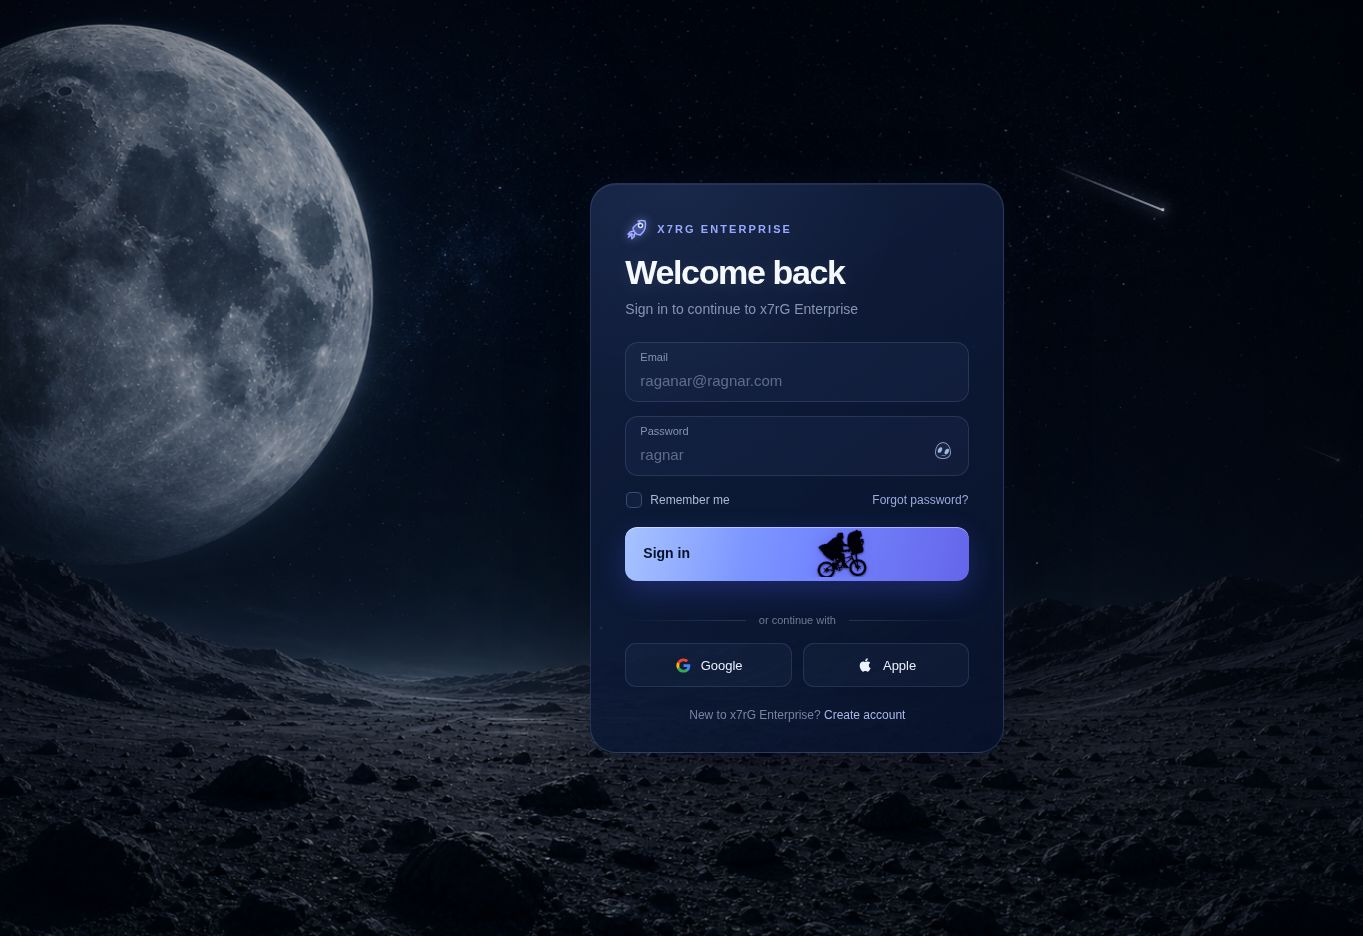
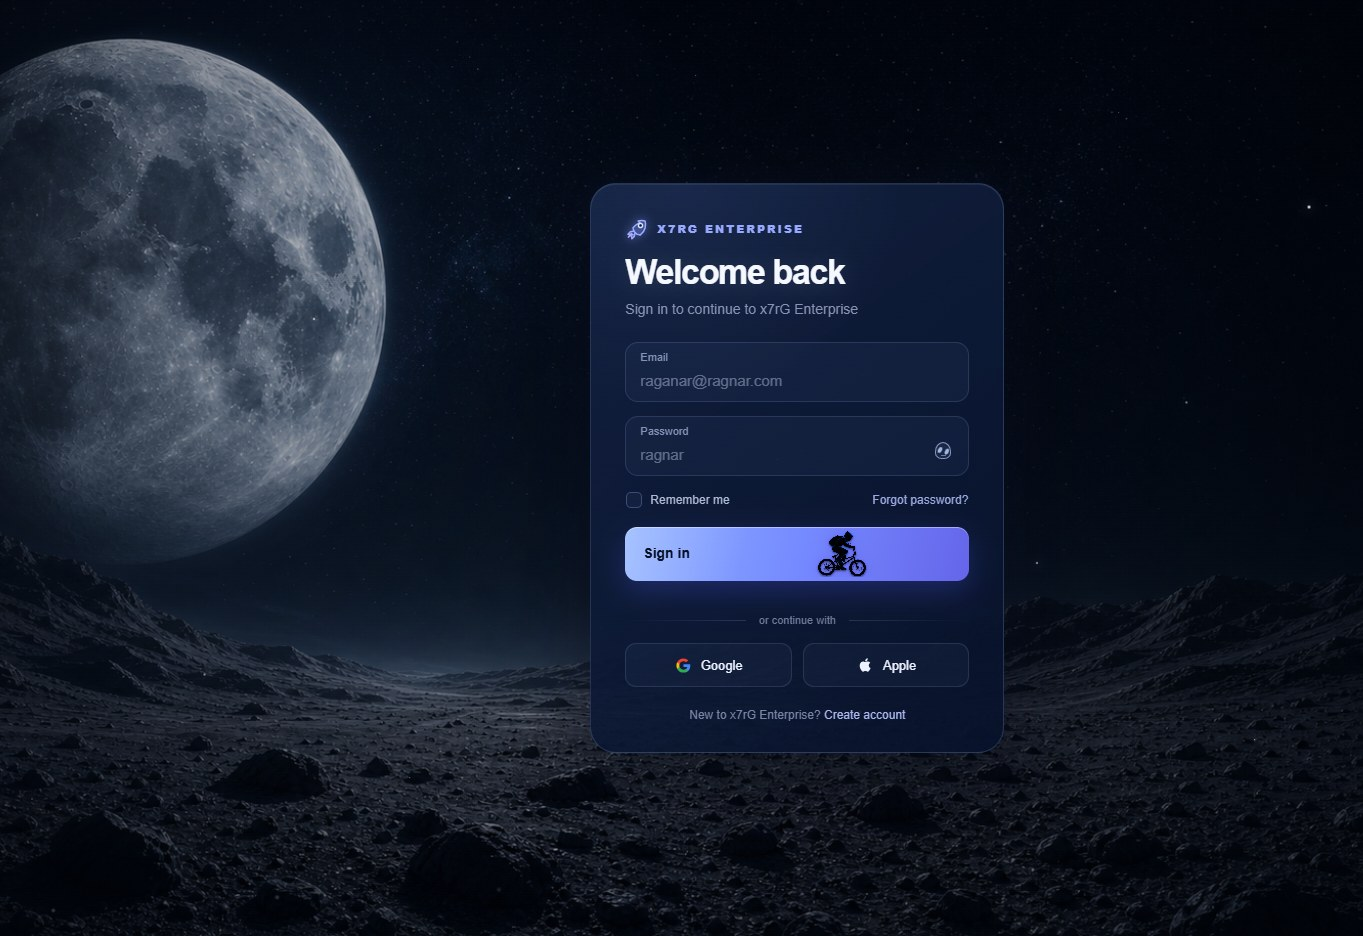
Substitui a silhueta da bicicleta e registra a procedência dos materiais
- Remove public/assets/et-bicycle-reference.png (obtida da internet, fonte e
  licença desconhecidas); ela permanece apenas no histórico do Git.
- Adiciona public/assets/bmx-silhouette.png: o bmx.png fornecido por Rogério,
  usado sem alteração (traz metadados C2PA de geração por IA; autoria e
  licença não estão registradas). Ajusta só o tamanho/posição da bicicleta e o
  alinhamento das rodas giratórias; a sequência de 3,42 s, a lua, o som e o
  pouso ficam intactos.
- Oculta o botão nativo "mostrar senha" do Edge (::-ms-reveal) para aparecer
  somente o controle do projeto.
- README: nova seção "Procedência e uso de IA", árvore de arquivos corrigida e
  rodapé sem "Todos os direitos reservados"; capturas de tela refeitas.

diff --git a/app/globals.css b/app/globals.css
@@ -960,6 +960,11 @@ button {
   padding-right: 36px !important;
 }
 
+/* O Edge desenha o próprio botão "mostrar senha"; o controle do projeto (.password-toggle) é o único que deve aparecer. */
+.password-field input::-ms-reveal {
+  display: none;
+}
+
 .password-toggle {
   position: absolute;
   right: 8px;
@@ -1191,7 +1196,7 @@ button {
   position: absolute;
   inset: 0;
   display: block;
-  background: var(--asset-bicycle) center / contain no-repeat;
+  background: var(--asset-bicycle) -4.25px 1.91px / 58.27px 47.56px no-repeat;
   filter:
     drop-shadow(0 1px 1px rgba(1, 5, 18, .62))
     drop-shadow(0 0 3px rgba(107, 110, 255, .62))
@@ -1201,8 +1206,8 @@ button {
 .bike-wheel-motion {
   position: absolute;
   z-index: 4;
-  top: 65.2%;
-  width: 29.7%;
+  top: 58.1%;
+  width: 32.5%;
   aspect-ratio: 1;
   border: 1px solid rgba(146, 153, 255, .72);
   border-radius: 50%;
@@ -1218,8 +1223,8 @@ button {
   box-shadow: 0 0 3px rgba(118, 113, 255, .55);
 }
 
-.bike-wheel-motion-rear { left: 2.6%; }
-.bike-wheel-motion-front { left: 68.1%; top: 62.2%; }
+.bike-wheel-motion-rear { left: 4.4%; }
+.bike-wheel-motion-front { left: 63.7%; top: 59.5%; }
 
 .bicycle-moon {
   position: absolute;

diff --git a/app/layout.tsx b/app/layout.tsx
@@ -15,6 +15,10 @@ const geistMono = Geist_Mono({
   subsets: ["latin"],
 });
 
+// Silhueta da bicicleta do botão "Sign in": imagem bmx.png fornecida por Rogério, usada sem alteração (ver README, "Procedência e uso de IA").
+// O recorte e as rodas giratórias em app/globals.css (.bike-reference-art, .bike-wheel-motion) foram medidos para este arquivo.
+const bicycleSilhouette = "/assets/bmx-silhouette.png";
+
 const title = "x7rG Login Experience — Uma missão além do login";
 const description =
   "Experiência cinematográfica de login em cenário lunar, criada pela x7rG Enterprise.";
@@ -72,7 +76,7 @@ export default function RootLayout({
           "--asset-caravan": `url("${basePath}/camel-caravan-realistic.png")`,
           "--asset-rover": `url("${basePath}/opportunity-rover.png")`,
           "--asset-lander": `url("${basePath}/lunar-lander-right-ridge.png")`,
-          "--asset-bicycle": `url("${basePath}/assets/et-bicycle-reference.png")`,
+          "--asset-bicycle": `url("${basePath}${bicycleSilhouette}")`,
         } as React.CSSProperties}
       >
         {children}
